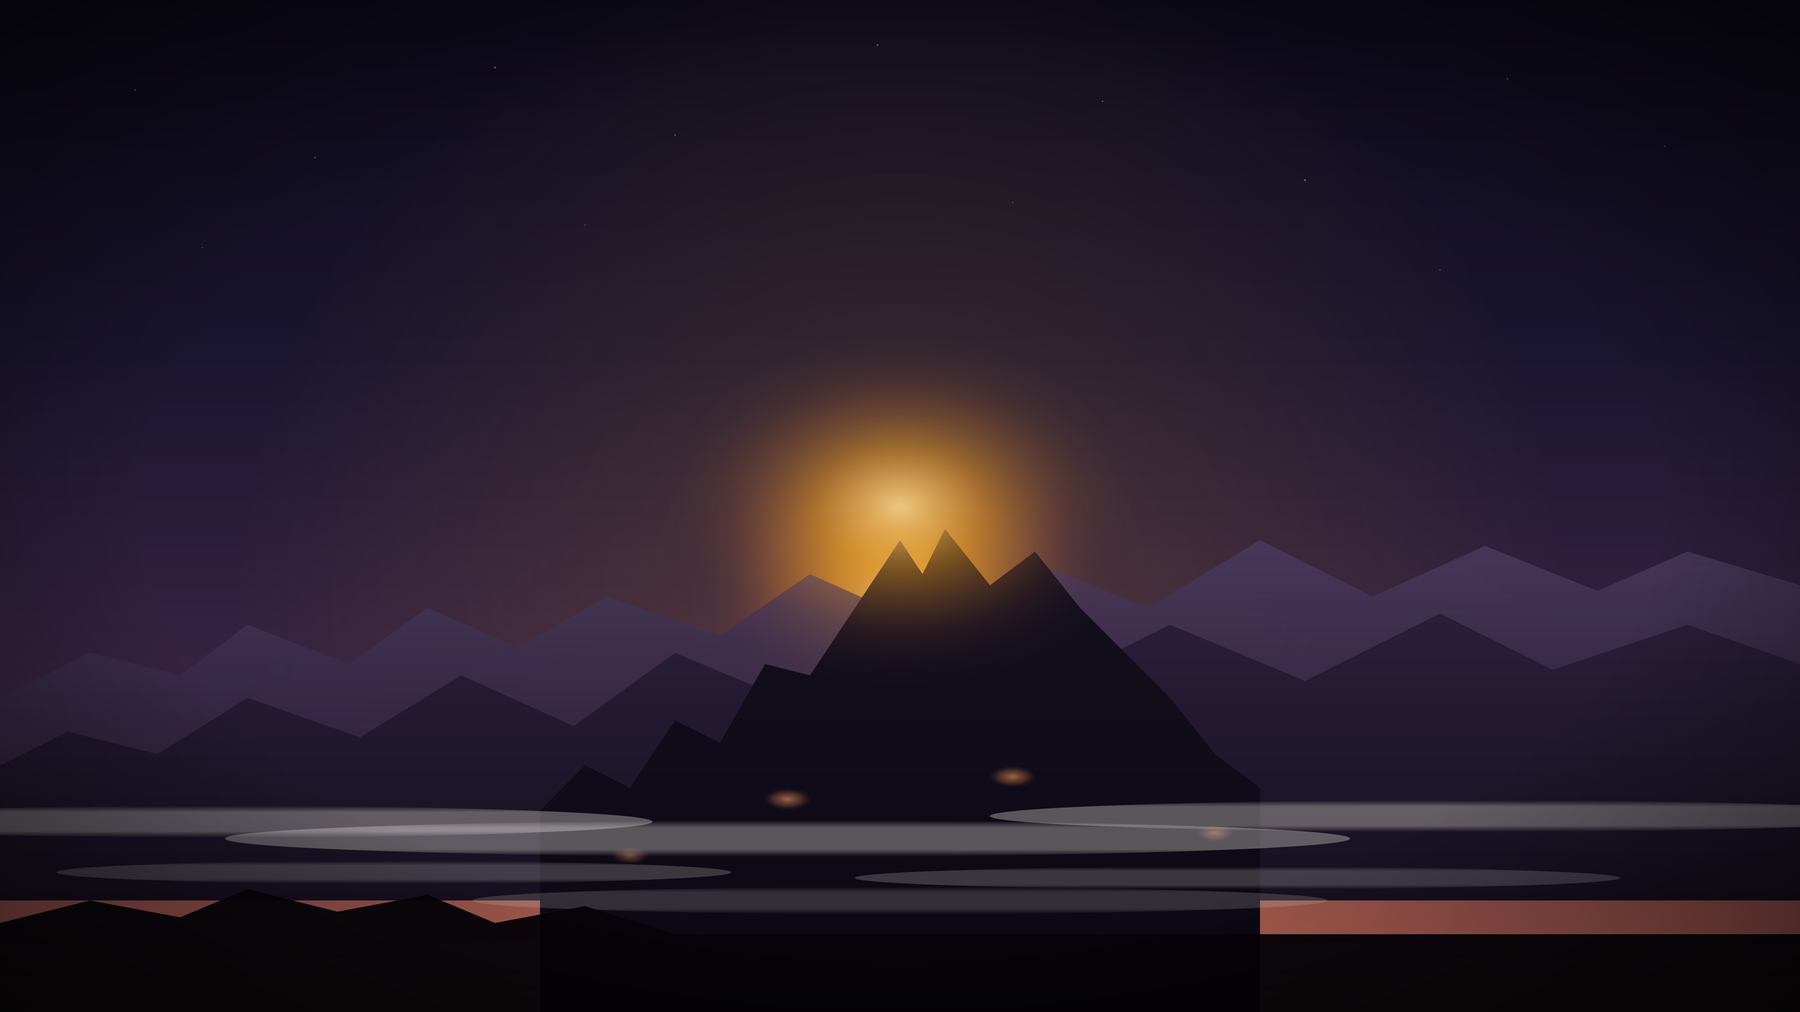
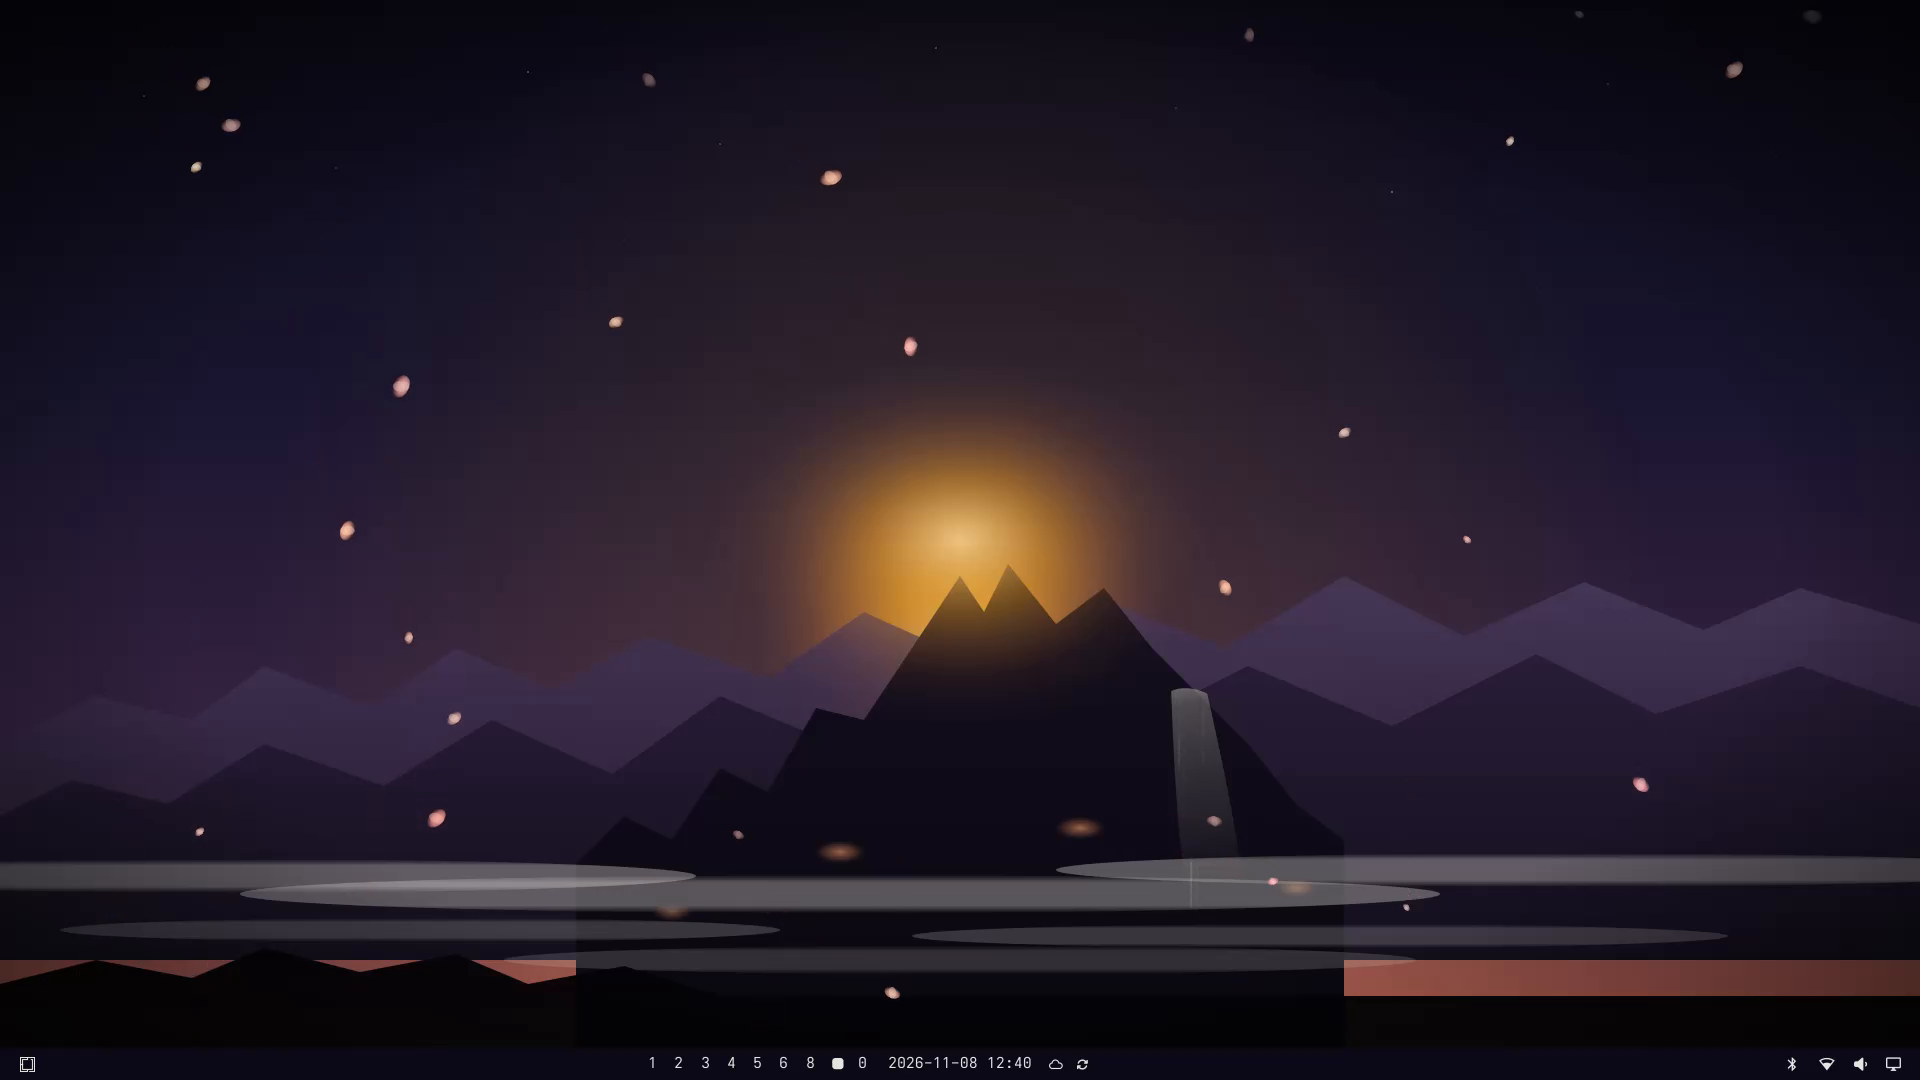
docs: add animated live capture of falling peach blossoms to README
Captures live desktop motion showing the summit pulse, cliff waterfall,
and falling peach blossom particle overlay.

Co-Authored by Antigravity using Gemini 3.8 Flash with agent Antigravity.

diff --git a/README.md b/README.md
@@ -2,7 +2,7 @@
 
 A dark, atmospheric theme inspired by the legendary Flower-Fruit Mountain (*Huāguǒ Shān*) and the visual identity of [MonkeyKing.dev](https://monkeyking.dev). Features deep obsidian backgrounds, vibrant amber and peach blossom accents, high-contrast typography, and custom desktop artwork.
 
-![Flower-Fruit Mountain Preview](preview.png)
+![Flower-Fruit Mountain Live Preview](preview.gif)
 
 ## Palette Highlights
 
